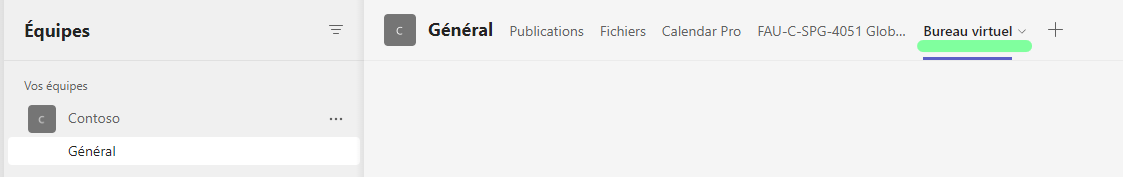
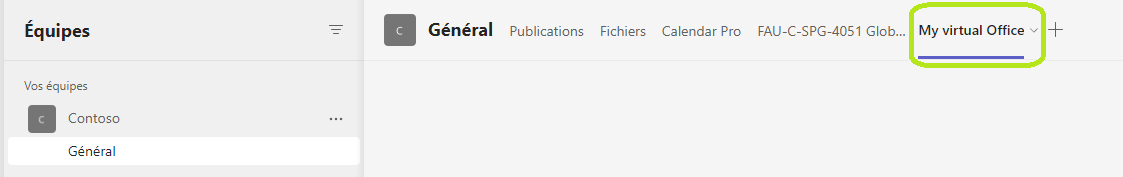
Changement des images en anglais

Changed region(s): [[0.8103, 0.0, 0.935, 0.3955]]

diff --git a/src/guide/user-interactions.md b/src/guide/user-interactions.md
@@ -1,25 +1,20 @@
-## Intéractions MetaOffice
 
+# Interactions
 
-MetaOffice est un environnement de travail virtuel qui permet aux utilisateurs d'interagir et de collaborer avec leurs collègues. Les interactions sont facilitées par la présence d'avatar en 2D qui permettent aux utilisateurs de se représenter virtuellement dans une carte.
+MetaOffice is a virtual workspace that allows users to interact and collaborate with their colleagues. Interactions are facilitated by the presence of 2D avatars that allow users to represent themselves virtually on a map.
 
-## Intéractions dans les couloirs entre joueurs
+## Interactions in Corridors Between users
+To interact with another user in MetaOffice Pro, you need to be on a tile close to them. Once you are close, a video and voice communication between the two of you will start.
 
-Pour interagir avec un autre utilisateur dans MetaOffice, vous devez vous placer sur une case proche de celui-ci. Une fois proche une communication vidéo et vocale entre les deux se lance.
+In  corridors, group communications are possible. The number of people who can participate in a conversation depends on how many people are adjacent to each other. For example, if three people are adjacent to each other, they can all communicate together at the same time.
 
-Dans les couloirs de MetaOffice, les communications de groupe sont possibles. Le nombre de personnes qui peuvent participer à une conversation dépend du nombre de personnes collées les unes aux autres. Par exemple, si trois personnes sont collées les unes aux autres, elles peuvent communiquer toutes ensemble en même temps.
+It is important to note that in order for communications to proceed without interruption, it is recommended to remain still throughout the conversation. If you move, the communication will be interrupted. MetaOfficePro relies on principles of physical presence similar to the real world for corridor communications. If you are far away from your conversation partner, they will not be able to hear you.
 
-Il est important de noter que pour que les communications se déroulent sans interruption, il est recommandé de rester immobile pendant toute la durée de la conversation. Si vous bougez, la communication sera rompue. 
-En effet MetaOfficePro base ses communications dans les couloirs sur des principes de présence physique similaire au monde réel. Si vous êtes loin de votre interlocteur ce dernier ne pourra pas vous entendre.
+Finally, to end a conversation, simply move away from the participants. You can simply move away from them to interrupt the communication.
 
-Enfin, pour rompre une conversation, il suffit de s'éloigner des participants. Vous pouvez simplement vous déplacer loin d'eux pour interrompre la communication.
+## Interactions in Meeting Rooms
+Interactions in meeting rooms are different from those in corridors. When you enter a meeting room, you will notice that the entire room is highlighted and the rest of the map is grayed out. This room is a meeting room, and it is possible to have a group conversation throughout the room. It is not necessary to be physically close to other participants as long as you remain in the room.
 
-
-## Intéractions dans des salles de meeting
-
-Les interactions dans les salles de meeting sont différentes de celles dans les couloirs. Lorsque vous entrez dans une salle de meeting, vous remarquerez que toute la pièce est mise en évidence et que le reste de la carte est grisée. Cette salle est une salle de réunion, et il est possible d'y avoir une conversation de groupe dans toute la salle. Il n'est donc pas nécessaire d'être collé aux autres participants, tant que vous restez dans la salle.
-
-Dans une salle de meeting, il est également possible de collaborer avec d'autres utilisateurs en utilisant des outils de présentation, des tableaux blancs virtuels et d'autres fonctionnalités de collaboration. Ces outils peuvent être utilisés pour faciliter la discussion et la prise de décision en groupe.
-
+In a meeting room, it is also possible to collaborate with other users using presentation tools, virtual whiteboards, and other collaboration features. These tools can be used to facilitate discussion and group decision-making.
 
 

diff --git a/src/index.md b/src/index.md
@@ -1,17 +1,18 @@
 ---
 home: true
 heroImage: /assets/img/MetaOfficePro-by-Witivio.png
-heroText: Welcome to MetaOffice
+heroText: Welcome to MetaOffice Pro documentation website.
 tagline: We're glad you're here !
 actionText: Quick Start →
-actionLink: /guide/
+actionLink: /guide/installation
+
 features:
-- title: Feature 1 Title
-  details: Feature 1 Description
-- title: Feature 2 Title
-  details: Feature 2 Description
-- title: Feature 3 Title
-  details: Feature 3 Description
+- title: Install MetaOffice Pro 
+  details: Discover how to install the app on Microsoft Teams
+- title: Log In 
+  details: Log In to the application and start 
+- title: Interact with other people
+  details: it's time to speak with your team mates !  
 ---
 
 ::: slot footer
